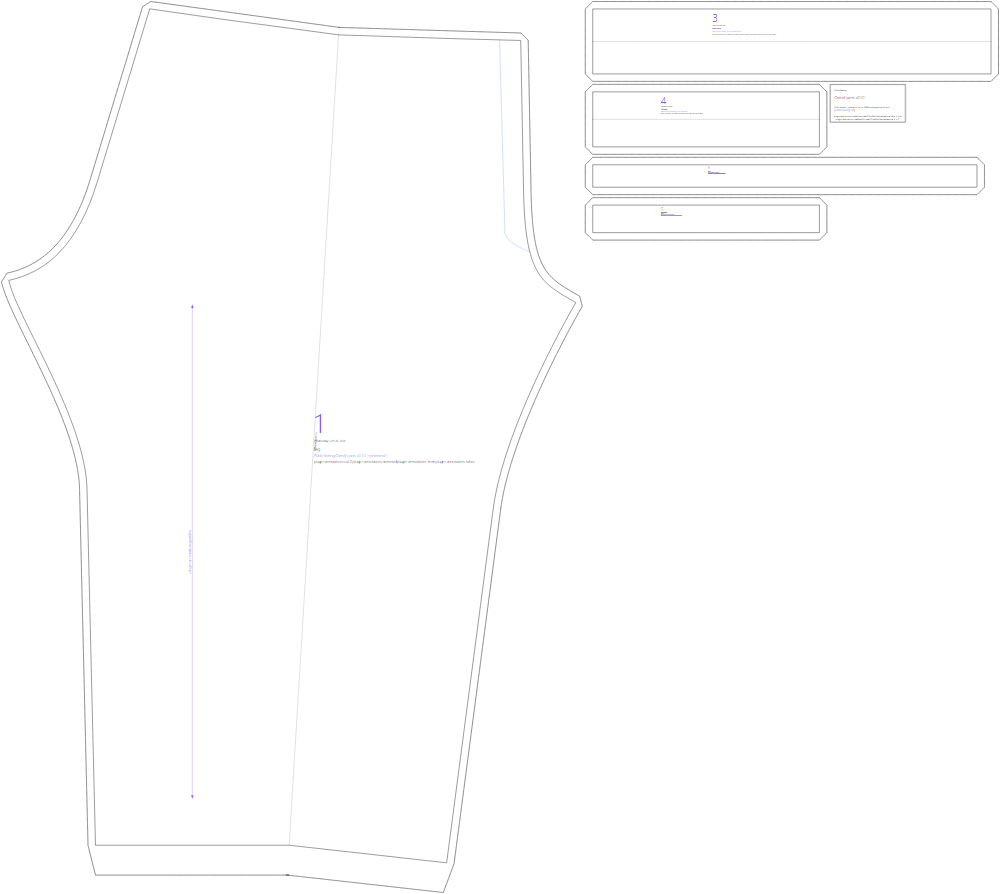
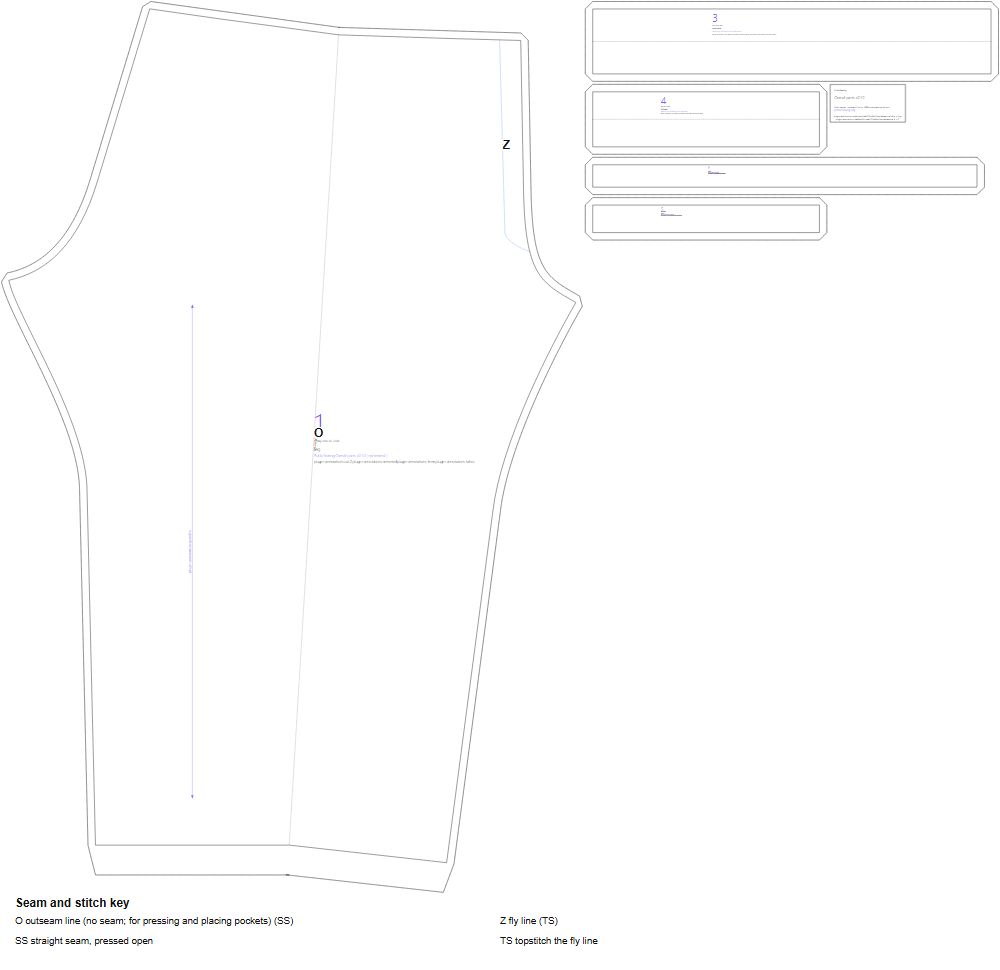
Map the overall pants; drawers and sailor pants inherit it

diff --git a/designs/overall-pants/BRIEF.md b/designs/overall-pants/BRIEF.md
@@ -45,6 +45,8 @@ made 2 sizes larger than the regular pants measurements across the seat and wais
 Leg (cut 2, mirrored), waistband (cut 2), fly shield and facing, belt loops.
 
 ## Construction
-1. Fly as the trousers.
-2. Inseams; crotch seam from the back waist round to the fly.
-3. Waistband and loops; hems.
+Letters are the codes on the pattern map; numbers are printed on the pieces. **SS** straight seam pressed open, **TS** topstitch.
+
+1. Fly as the trousers: the facing **5** to the left leg **1**, the shield **4** to the right, the closure between them; topstitch the fly line **Z** with **TS**.
+2. Sew the inseams of each leg **1**, then the crotch seam from the back waist round to the fly. The outseam line **O** is pressed, not sewn: the leg is cut in one.
+3. Sew the belt loops **6** and the waistband **3** to the waist of the legs **1**; turn up the hems.
